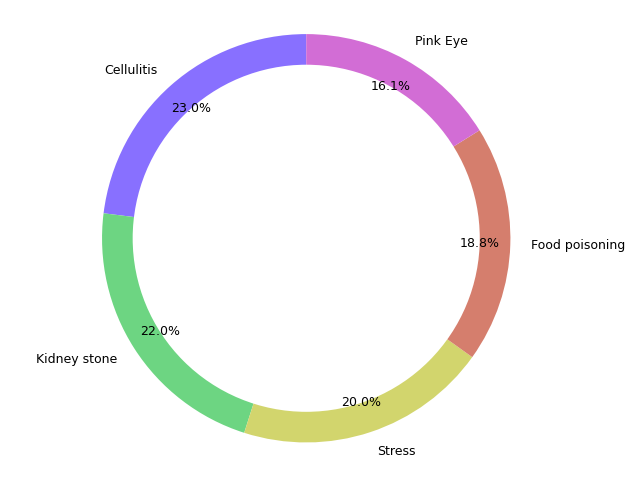
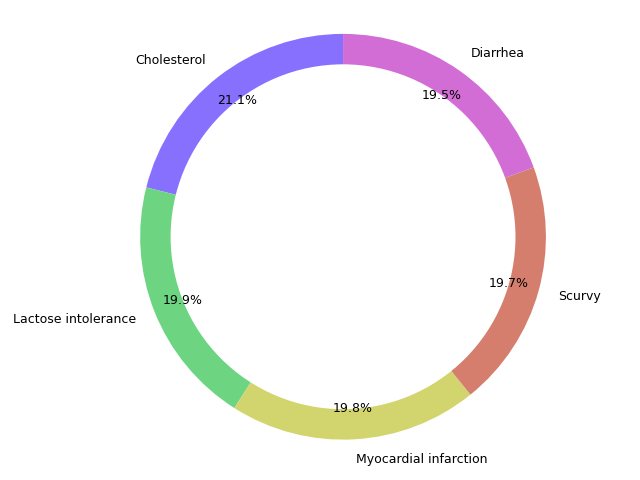
2.1

Changed region(s): [[0.0312, 0.0625, 1.0, 0.9688], [0.875, 0.5938, 0.9375, 0.625]]

diff --git a/main.py b/main.py
@@ -111,7 +111,7 @@ class NinthWindow(Window):
             model.fit(X_train, y_train)
             features = model.predict_proba(symptom_user)
             probabilities[disease_prob] = int(features[0, 1] * 10000)
-            print(f"Probability for the {diseases_norm.columns.values[disease_prob]}:\n{round(features[0, 1] * 100, 2)}%")
+            print(f"Score for the disease {diseases_norm.columns.values[disease_prob]}:\n{round(features[0, 1] * 10000, 2)}")
 
         prob_indices = heapq.nlargest(5, range(len(probabilities)), probabilities.__getitem__)
         max_prob = [None] * 5
